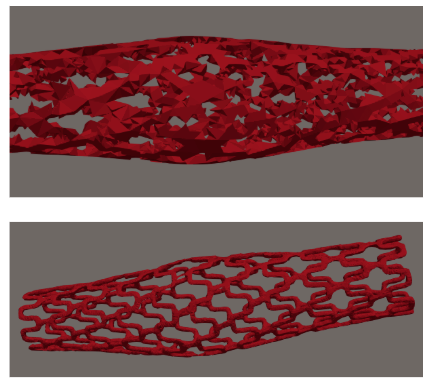
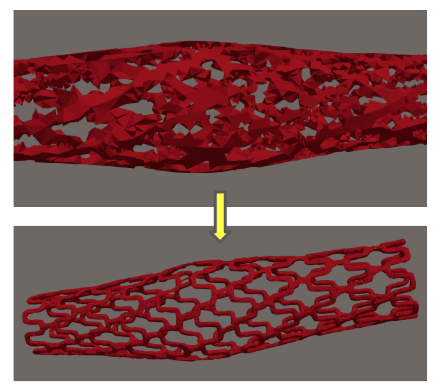
Update website

Changed region(s): [[0.0, 0.0, 0.9931, 1.0]]

diff --git a/my-site/docs/projects/index.html b/my-site/docs/projects/index.html
@@ -142,9 +142,9 @@ ul.task-list li input[type="checkbox"] {
 </header>
 
 
-<section id="open-source-automated-meshing-and-simulation-of-patient-specific-stented-coronary-arteries-current" class="level2">
-<h2 class="anchored" data-anchor-id="open-source-automated-meshing-and-simulation-of-patient-specific-stented-coronary-arteries-current">Open-source automated meshing and simulation of patient-specific stented coronary arteries (Current)</h2>
-<p>Developed a pipeline for automated meshing and simulation of stented coronary arteries. This methodology has been applied to several patient-specific cases. Due to copyright of patient data, the demonstration of this pipeline is constrained to synthetic STL geometries that closely resemble real patient-specific geometries. This was done with all <em>open-source software on a low-end Mac Mini M4</em> with 16 GB RAM, 10 CPU cores, 10 GPU cores ($500 dollar price-tag).</p>
+<section id="open-source-automated-meshing-and-simulation-of-patient-specific-stented-coronary-arteriescurrent" class="level2">
+<h2 class="anchored" data-anchor-id="open-source-automated-meshing-and-simulation-of-patient-specific-stented-coronary-arteriescurrent">Open-source automated meshing and simulation of patient-specific stented coronary arteries(Current)</h2>
+<p>Developed a pipeline for automated meshing and simulation of stented coronary arteries. This methodology has been applied to several patient-specific cases. Due to copyright of patient data, the demonstration of this pipeline is constrained to synthetic STL geometries that closely resemble real patient-specific geometries. This was done with all <em>open-source software on a low-end Mac Mini M4</em> with 16 GB RAM, 10 CPU cores, 10 GPU cores ($500 dollar price-tag). Complete meshing setup, tagging, smoothing, and domain decomposition was done without human intervention in under 3 minutes.</p>
 <p>Developed the following methodology <strong>automatically</strong> on a bifurcated carotid artery geometry with malapposed stent on the external carotid artery (ECA) branch:</p>
 <section id="generation-of-synthetic-stl-geometries-in-the-form-of-bifurcated-coronary-arteries-e.g.-carotid-artery-and-stent-that-closely-resemble-real-patient-specific-stented-geometries-using-python-libraries." class="level3">
 <h3 class="anchored" data-anchor-id="generation-of-synthetic-stl-geometries-in-the-form-of-bifurcated-coronary-arteries-e.g.-carotid-artery-and-stent-that-closely-resemble-real-patient-specific-stented-geometries-using-python-libraries.">1. Generation of synthetic STL geometries in the form of bifurcated coronary arteries (e.g.&nbsp;carotid artery) and stent that closely resemble real patient-specific stented geometries using Python libraries.</h3>
@@ -164,8 +164,12 @@ ul.task-list li input[type="checkbox"] {
 <p><img src="Images/stent_smooth_side.png" style="height: 100%; width: 100%; object-fit: contain"></p>
 </section>
 <section id="domain-decomposition-and-integration-lumen-and-stent." class="level3">
-<h3 class="anchored" data-anchor-id="domain-decomposition-and-integration-lumen-and-stent.">5. Domain decomposition and integration (lumen and stent).</h3>
+<h3 class="anchored" data-anchor-id="domain-decomposition-and-integration-lumen-and-stent.">5. Domain decomposition and integration (Lumen and Stent).</h3>
 <p><img src="Images/domain_decomposition.png" style="height: 100%; width: 100%; object-fit: contain"></p>
+</section>
+<section id="simulation-of-navier-stokes-equations-with-fenics." class="level3">
+<h3 class="anchored" data-anchor-id="simulation-of-navier-stokes-equations-with-fenics.">6. Simulation of Navier-Stokes equations with FEniCS.</h3>
+<p><img src="Images/Navier_Stokes.png" style="height: 100%; width: 100%; object-fit: contain"></p>
 </section>
 </section>
 <section id="nanopore-embedding-in-microscale-simulations-2025" class="level2">